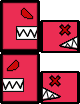
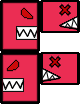
Updated Block Run
Running, Enemies, improved performance.

diff --git a/Block Run/blockRun.js b/Block Run/blockRun.js
@@ -4,11 +4,11 @@ var map = [
    '#             # o                 #####   o   #####        ####                 #',
    '#         o   #                           #                                     #',
    '#             #####   ##                 ###            ##########              #',
-   '#  o      #                             #####                                   #',
-   '#      #  # #             ######       ## o ##              o            o o    #',
+   '#  o      #               E             #####                                   #',
+   '#      #  # #             ######       ## o ##            E              o o    #',
    '#  #     ## #            ## o  #      ###   ###        ############      o o    #',
-   '# ###       #     #     ### o        ####   ####                                #',
-   '#######  ################################# ##################################   #',
+   '# ###       #E     #    ### o        ####   ####            o                   #',
+   '#######  ################################  ##################################   #',
    '#                                                                               #',
    '#      #                    o             o##o                              #####',
    '#      ##                                ######                            #    #',
@@ -16,7 +16,7 @@ var map = [
    '#o     ####o             o     o       #        #                        #      #',
    '###    #####     ##     ##     ##     #   o   o  #     ##     ####      #       #',
    '#   o  ####      ##     ##     ##                                 #    #        #',
-   '#      ####o  o  ##  o  ##     ##                               o  #  #         #',   
+   '#      ####o  o  ##  o  ##     ##      E               E        o  #  #         #',   
    '#################################################################################',
 ];
 
@@ -76,6 +76,14 @@ function Player() {
    
    this.update = function() 
    {
+      this.BlinkAnimation();
+      this.verticalMovement();
+      this.horizontalMovement();
+      this.handleCollisions();
+   }
+   
+   this.BlinkAnimation = function() 
+   {
       this.timer++;
 
       for(var i = 0; i <blink_timeframe.length; i++ ) {
@@ -87,21 +95,23 @@ function Player() {
             this.step = 0;
             this.timer = 0;
          }
-      }
-      
+      }   
+   }
+   this.verticalMovement = function()
+   {
+      // Arrow Key detection.
       if(UP && this.jump){ 
          this.dy = -this.jumpPower; 
          this.ddy = -1;
          this.jump = false;
-      }
-      if(DOWN){ 
-         this.dy = this.speed; 
-      } 
+      }       
       
       if(this.dy < 10 && !this.jump) this.ddy += GRAVITY; // Apply Gravity
-      this.dy += this.ddy;
+      
+      this.dy += this.ddy; // Update variables
       this.y += this.dy;
       
+      // Vertical Block collisions. (needs to be seperate from horizonal for proper collisions)
       for(item in items) {
          if(this.dy < 0 && collide(this,items[item]) && isItem(items[item],'block')) {
             this.dy = 0;
@@ -119,11 +129,18 @@ function Player() {
             this.jump = true;
          }
       }
-
-      if(this.dy > 12) this.dy = 12;          //Speed limits
-      if(this.dy < -15) this.dy = -15;
+      
+      //Speed limits
+      if(this.dy > 12) this.dy = 12;          
+      if(this.dy < -15) this.dy = -15;   
+   }
+   
+   this.horizontalMovement = function()
+   {
+      // Handle Running (Shift)
       if(SHIFT) this.speed = this.run;
       else this.speed = this.walk;
+      
       if(LEFT){ 
          this.dx = this.speed; // Move Left
          this.frameY = 1; // Face Left
@@ -134,11 +151,16 @@ function Player() {
       }
       if(!LEFT && !RIGHT) this.dx = 0; // If no arrow keys no move hor.
       
+      // Update position and move camra.
       player.x -= this.dx;
       scrollX += this.dx;
-      ctx.translate(this.dx, 0);
-      
+      ctx.translate(this.dx, 0);   
+   }
+   
+   this.handleCollisions = function() 
+   {
       for(item in items) {
+         // Blocks
          if(RIGHT && collide(this,items[item]) && isItem(items[item],'block')) {
             // Reposition player to be place right next to block, then get the difference and apply that to scrolling of canvas.
             var oldX = this.x;
@@ -154,19 +176,74 @@ function Player() {
             ctx.translate(diff, 0);
             scrollX += diff;
          }
-         if(collide(this,items[item]) && isItem(items[item],'coin')) {
+         // Coins
+         if( isItem(items[item],'coin') && collide(this,items[item]) ) {
             items.splice(item, 1);
             COINS++;
          }
-      }     
-      
-      groundPoint.x = this.x;
-      groundPoint.y = this.y + this.size + 1;
-   
-      for(item in items) 
+         // Monsters
+         if( isItem(items[item],'enemies') && collide(items[item], player) ){
+            //Player land on head, enemey is damaged (shift XFrame or die if out of hp)
+            if( player.y + player.height < items[item].y + player.dy + 5  && player.dy > 0 ) {
+               player.dy = -5;
+               player.ddy = -1;
+               player.y = items[item].y - 20;
+               items[item].hp--;
+               if(items[item].type == "RedBlock" && items[item].hp == 1){ 
+                  items[item].y += 20;
+                  items[item].height -= 20; 
+               }
+               if( items[item].hp > 0 ) items[item].frameX++;
+               else items.splice(item, 1);
+            }
+         }
+         // Handle Jump (only jump when player is on the ground)
          if(collide(groundPoint, items[item]) && isItem(items[item],'block') && this.dy >= 0) { 
             this.jump = true; break;
-         } else { this.jump = false; }
+         } else {
+            this.jump = false;    
+         }
+      }     
+      groundPoint.x = this.x;
+      groundPoint.y = this.y + this.size + 1;   
+   }
+}
+
+function Enemy(x, y, width, height, image, speed ,walkSteps, hp, type) 
+{
+   this.x = x;
+   this.y = y - 20;
+   this.frameX = 0; // X frame on tilemap sprite
+   this.frameY = 0; // Y frame on tilemap sprite
+   this.width = width;
+   this.height = height;
+   this.sWidth = width; this.sHeight = height;
+   this.image = image;
+   this.speed = speed;
+   this.startWalk = this.x;
+   this.endWalk = this.x + (walkSteps * 32) - (this.width - 32);
+   this.hp = hp;
+   this.type = type
+   
+   this.draw = function(){
+      this.update();
+      ctx.drawImage(this.image, this.frameX*this.sWidth, this.frameY*this.sHeight, this.sWidth, this.sHeight, this.x, this.y, this.sWidth, this.sHeight);
+   }
+   
+   this.update = function() 
+   {
+      // Walking
+      if(this.x >= this.endWalk && this.speed > 0){
+         this.x = this.endWalk;
+         this.speed *= -1;
+         this.frameY = 1;
+      }
+      else if(this.x <= this.startWalk && this.speed < 0){
+         this.x = this.startWalk;
+         this.speed *= -1;
+         this.frameY = 0;
+      }
+      this.x += this.speed
    }
 }
 
@@ -212,12 +289,14 @@ function loadImages()
    var Block = new Image(); Block.src = "block.png";
    var Coin = new Image(); Coin.src = "coin.png"
    var Background = new Image(); Background.src = "clouds.jpg";
+   var Enemies = new Image(); Enemies.src = "enemies.png";
    
    images = {
       player_blink: playerBlink,
       block: Block,
       coin: Coin,
-      background: Background
+      background: Background,
+      enemies: Enemies
    }
    
    return images;
@@ -237,6 +316,8 @@ function createMap() {
             items.push(new Block(X*SIZE, Y*SIZE));
          if(map[Y].charAt(X) == 'o') 
             items.push(new Coin(X*SIZE, Y*SIZE));
+         if(map[Y].charAt(X) == 'E') 
+            items.push(new Enemy(X*SIZE, Y*SIZE, 40, 52, images["enemies"], 4, 5, 2, "RedBlock"));
       }
    }
 }
